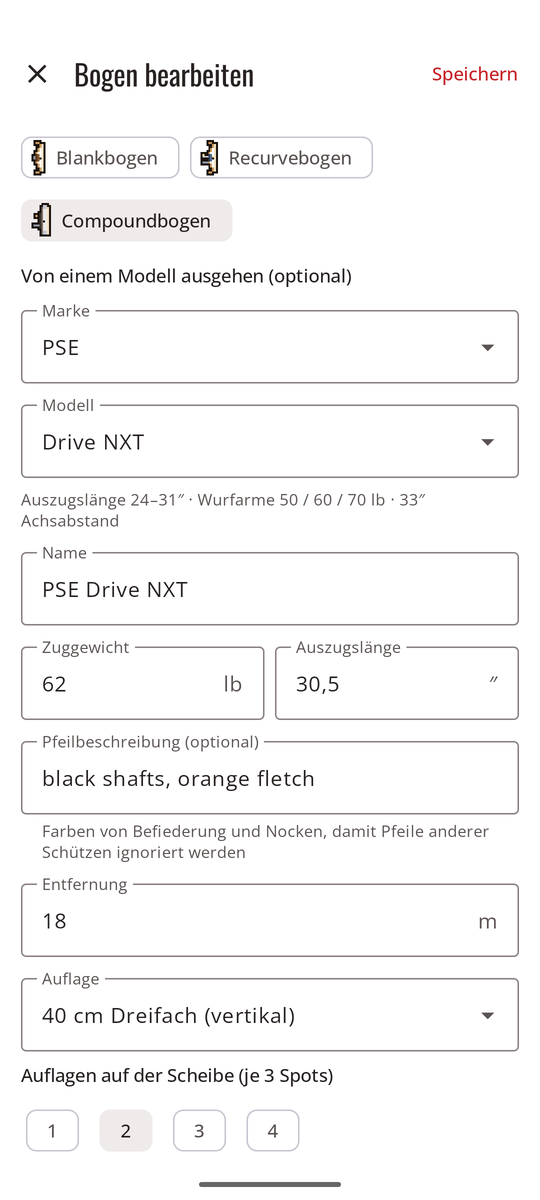
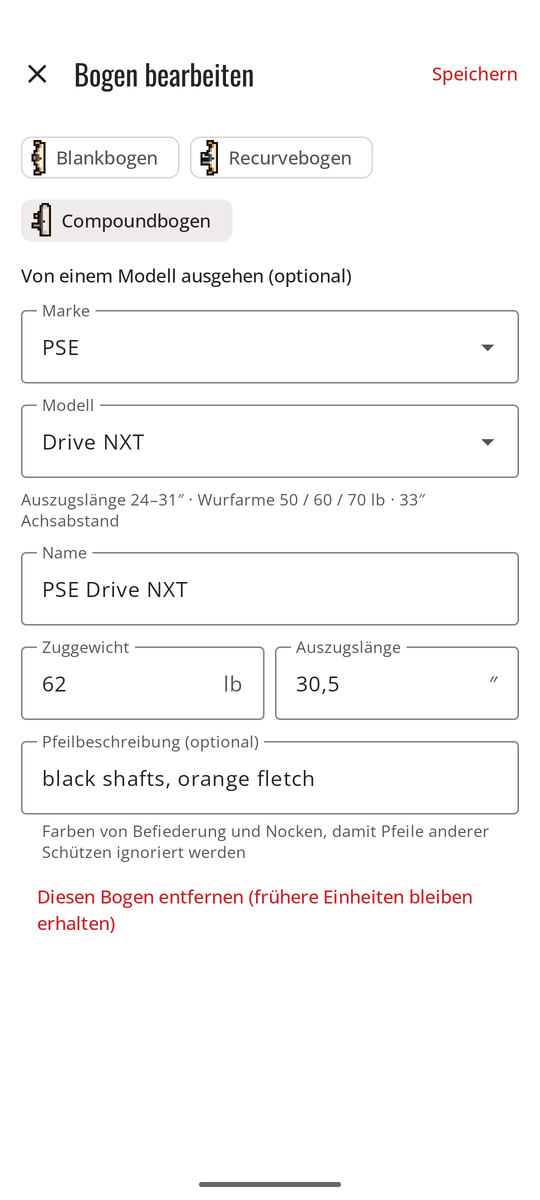
Update the sagitt·AI·re site

diff --git a/sagittaire/docs/sessions.de.md b/sagittaire/docs/sessions.de.md
@@ -5,7 +5,7 @@ Eine Einheit ist ein Besuch am Bogenplatz: ein Ort, ein Datum, ein Bogen und ein
 <div class="shots" markdown>
 <figure markdown>
 ![Ausgefülltes Formular Neue Einheit für einen Compoundbogen auf zwei senkrechten Dreifach-Auflagen.](images/screenshots/de/new-session.png){ .shot }
-<figcaption><b>Neue Einheit.</b> Die Vorgaben des Bogens füllen den Rest aus.</figcaption>
+<figcaption><b>Neue Einheit.</b> Die Angaben deiner letzten Einheit füllen den Rest aus.</figcaption>
 </figure>
 <figure markdown>
 ![Bildschirm der Einheit mit dem Gesamtergebnis, dem Diagramm Ergebnis pro Passe und dem Schießzettel.](images/screenshots/de/session.png){ .shot }
@@ -20,9 +20,9 @@ Tippe in der Übersicht auf **Einheit starten** und fülle dann aus:
 - **Ort**: Gib einen neuen ein oder wähle einen, den du schon benutzt hast. Um einen Tippfehler zu korrigieren, zwei Namen für denselben Platz zusammenzuführen oder einen zu entfernen, siehe [Gespeicherte Orte](#saved-places).
 - **Datum**: standardmäßig jetzt.
 - **Disziplin**: Scheibenbogenschießen (der Standard), Feldbogenschießen, 3D-Bogenschießen oder Para-Bogenschießen.
-- **Bogentyp** (Blankbogen, Recurvebogen oder Compoundbogen, jeder mit seiner kleinen Zeichnung) und **Bogen**. Die Vorgaben des Bogens füllen den Rest aus. Siehe [Bögen](bows.md).
+- **Bogentyp** (Blankbogen, Recurvebogen oder Compoundbogen, jeder mit seiner kleinen Zeichnung) und **Bogen**. Siehe [Bögen](bows.md).
 - Unter der Entfernung die **Visiermarke** des Bogens dafür, und die **Pfeile**, wenn der Bogen Pfeilsätze hat: der Satz, den er zuletzt benutzt hat. Siehe [Visiermarken, Pfeilsätze und Tuning-Logbuch](bows.md#sight-marks-arrow-sets-and-tuning-log).
-- **Entfernung**, **Auflage**, **Auflagen auf der Scheibe** (bei Dreifach-Auflagen: wie viele auf der Scheibe hängen, zum Beispiel 2 Auflagen = 6 Spots) und **Pfeile pro Passe** (beliebig viele, oft 3 oder 6). Die Auflagen richten sich nach der Disziplin: Scheibenauflagen, **Feld**-Auflagen (80, 60, 40 cm oder 20 cm in Spalten zu drei) oder das **3D**-Tier. Siehe [Feld und 3D](rules.md#field-and-3d).
+- **Entfernung**, **Auflage**, **Auflagen auf der Scheibe** (bei Dreifach-Auflagen: wie viele auf der Scheibe hängen, zum Beispiel 2 Auflagen = 6 Spots) und **Pfeile pro Passe** (beliebig viele, oft 3 oder 6). Die Auflagen richten sich nach der Disziplin: Scheibenauflagen, **Feld**-Auflagen (80, 60, 40 cm oder 20 cm in Spalten zu drei) oder das **3D**-Tier. Siehe [Feld und 3D](rules.md#field-and-3d). Diese Felder übernehmen deine letzte Einheit derselben Disziplin; der Bogen legt sie nicht fest.
 - **Wertungsregel**: kommt aus den Einstellungen und dem Bogentyp. Siehe [Wertungsregeln](rules.md).
 
 ## Eine Passe schießen { #shoot-an-end }
@@ -39,6 +39,7 @@ Bei der automatischen Wertung musst du nicht warten: Schieß die nächste Passe,
 - **Schießzettel:** Passe für Passe, mit der laufenden Summe. Tippe auf eine Passe, um ihr Foto und ihre Pfeile wieder zu sehen.
 - Diagramm **Ergebnis pro Passe**, mit der Durchschnittslinie und den besten und schlechtesten Passen.
 - **Ändern** wechselt die Wertungsregel, jederzeit. Alle Ergebnisse werden neu berechnet.
+- **Auflage ändern**: Wenn du auf eine andere Auflage geschossen hast als die eingestellte, wähle die richtige (gleiche Art: Scheibe oder Feld). Die Punkte werden aus den bereits erfassten Ringen neu berechnet; Pfeile, deren Ring es auf der neuen Auflage nicht gibt, und Fehlschüsse, die auf einer größeren Auflage zählen könnten, werden zur Prüfung markiert. Möglich, sobald alle Passen gewertet sind.
 - Die **Visiermarke** auf dieser Entfernung und die geschossenen **Pfeile**, jeweils mit **Ändern**.
 - **Beenden**. Passen, die nicht bestätigt sind, zählen erst, wenn du sie bestätigst, was du auch später noch tun kannst.
 - **Diese Einheit verwerfen** löscht sie, nachdem sagitt·AI·re gefragt hat.

diff --git a/sagittaire/docs/sessions.es.md b/sagittaire/docs/sessions.es.md
@@ -5,7 +5,7 @@ Una sesión es una visita al campo de tiro: un lugar, una fecha, un arco y una t
 <div class="shots" markdown>
 <figure markdown>
 ![Formulario de nueva sesión completado para un arco compuesto con dos triples dianas verticales.](images/screenshots/es/new-session.png){ .shot }
-<figcaption><b>Nueva sesión.</b> Los valores predeterminados del arco completan el resto.</figcaption>
+<figcaption><b>Nueva sesión.</b> La configuración de tu última sesión completa el resto.</figcaption>
 </figure>
 <figure markdown>
 ![Pantalla de la sesión con el total, el gráfico de puntuación por tanda y la hoja de puntuación.](images/screenshots/es/session.png){ .shot }
@@ -20,9 +20,9 @@ En Inicio, toca **Empezar sesión** y completa:
 - **Lugar**: escribe uno nuevo o elige uno que ya usaste. Para corregir una errata, juntar dos nombres del mismo campo de tiro o quitar uno, consulta [Lugares guardados](#saved-places).
 - **Fecha**: ahora, por defecto.
 - **Disciplina**: tiro a diana (la predeterminada), tiro de campo, tiro 3D o tiro con arco adaptado (para).
-- **Tipo de arco** (arco desnudo, arco recurvo o arco compuesto, cada uno con su pequeño dibujo) y **arco**. Los valores predeterminados del arco completan el resto. Consulta [Arcos](bows.md).
+- **Tipo de arco** (arco desnudo, arco recurvo o arco compuesto, cada uno con su pequeño dibujo) y **arco**. Consulta [Arcos](bows.md).
 - Debajo de la distancia, la **marca de visor** del arco para esa distancia, y las **flechas** cuando el arco tiene juegos de flechas: el juego que usó la última vez. Consulta [Marcas de visor, juegos de flechas y registro de ajustes](bows.md#sight-marks-arrow-sets-and-tuning-log).
-- **Distancia**, **diana**, **dianas de papel** (en las triples dianas: cuántas hay en el parapeto, por ejemplo 2 dianas = 6 spots) y **flechas por tanda** (cualquier número, a menudo 3 o 6). Las dianas siguen la disciplina: dianas de tiro a diana, dianas de **campo** (80, 60, 40 cm, o 20 cm en columnas de tres) o el animal **3D**. Consulta [Campo y 3D](rules.md#field-and-3d).
+- **Distancia**, **diana**, **dianas de papel** (en las triples dianas: cuántas hay en el parapeto, por ejemplo 2 dianas = 6 spots) y **flechas por tanda** (cualquier número, a menudo 3 o 6). Las dianas siguen la disciplina: dianas de tiro a diana, dianas de **campo** (80, 60, 40 cm, o 20 cm en columnas de tres) o el animal **3D**. Consulta [Campo y 3D](rules.md#field-and-3d). Estos campos parten de tu última sesión de la misma disciplina; el arco no los fija.
 - **Regla de puntuación**: viene de Ajustes y del tipo de arco. Consulta [Reglas de puntuación](rules.md).
 
 ## Tira una tanda { #shoot-an-end }
@@ -39,6 +39,7 @@ Con la puntuación automática no tienes que esperar: tira la siguiente tanda mi
 - **Hoja de puntuación:** tanda a tanda, con el total acumulado. Toca una tanda para volver a ver su foto y sus flechas.
 - Gráfico de **Puntuación por tanda**, con la línea de la media, y las mejores y peores tandas.
 - **Cambiar** la regla de puntuación en cualquier momento. Todos los totales se vuelven a calcular.
+- **Cambiar diana**: si tiraste a otra diana distinta de la elegida, elige la correcta (mismo tipo: diana o campo). Los puntos se recalculan a partir de las zonas ya registradas; las flechas cuya zona no existe en la nueva diana, y los fallos que podrían puntuar en una diana más grande, se marcan para revisar. Posible una vez puntuadas todas las tandas.
 - La **marca de visor** a esta distancia y las **flechas** tiradas, cada una con **Cambiar**.
 - **Terminar**. Las tandas sin confirmar no cuentan hasta que las confirmes, cosa que puedes hacer más tarde.
 - **Descartar esta sesión** la borra, después de preguntarte.

diff --git a/sagittaire/docs/sessions.md b/sagittaire/docs/sessions.md
@@ -5,7 +5,7 @@ A session is one visit to the range: a place, a date, a bow and a round, and the
 <div class="shots" markdown>
 <figure markdown>
 ![New session form filled in for a compound bow on two vertical triple faces.](images/screenshots/new-session.png){ .shot }
-<figcaption><b>New session.</b> The bow's defaults fill in the rest.</figcaption>
+<figcaption><b>New session.</b> Your last session's setup fills in the rest.</figcaption>
 </figure>
 <figure markdown>
 ![Session screen with the total, the score-by-end chart and the scoresheet.](images/screenshots/session.png){ .shot }
@@ -20,9 +20,9 @@ On the Dashboard, tap **Start session**, then fill in:
 - **Location**: type a new one, or pick one you used before. To fix a typo, merge two names for the same range, or remove one, see [Saved places](#saved-places).
 - **Date**: now by default.
 - **Discipline**: target archery (the default), field archery, 3D archery or para archery.
-- **Bow type** (barebow, recurve bow or compound bow, each with its small drawing) and **bow**. The bow's defaults fill in the rest. See [Bows](bows.md).
+- **Bow type** (barebow, recurve bow or compound bow, each with its small drawing) and **bow**. See [Bows](bows.md).
 - Under the distance, the bow's **sight mark** for it, and the **arrows** when the bow has arrow sets: the set it used last time. See [Sight marks, arrow sets and tuning log](bows.md#sight-marks-arrow-sets-and-tuning-log).
-- **Distance**, **target face**, **paper faces** (for 3-spot faces: how many are on the boss, for example 2 faces = 6 spots), and **arrows per end** (any number, often 3 or 6). The faces follow the discipline: target faces, **field** faces (80, 60, 40 cm, or 20 cm in columns of three), or the **3D** animal. See [Field and 3D](rules.md#field-and-3d).
+- **Distance**, **target face**, **paper faces** (for 3-spot faces: how many are on the boss, for example 2 faces = 6 spots), and **arrows per end** (any number, often 3 or 6). The faces follow the discipline: target faces, **field** faces (80, 60, 40 cm, or 20 cm in columns of three), or the **3D** animal. See [Field and 3D](rules.md#field-and-3d). These fields start from your last session of the same discipline; the bow doesn't set them.
 - **Scoring rule**: set from Settings and the bow type. See [Scoring rules](rules.md).
 
 ## Shoot an end
@@ -39,6 +39,7 @@ With automatic scoring you don't have to wait: shoot the next end while the prev
 - **Scoresheet:** end by end, with the running total. Tap an end to see its photo and arrows again.
 - **Score by end** chart, with the average line, and the best and worst ends.
 - **Change** the scoring rule at any time. All the totals are recalculated.
+- **Change face**: if you shot at another face than the one set, pick the right one (same kind of face: target or field). Points are recalculated from the rings already recorded; arrows whose ring isn't on the new face, and misses that may score on a larger face, are marked for review. Possible once every end is scored.
 - The **sight mark** at this distance and the **arrows** shot, each with **Change**.
 - **Finish**. Ends that aren't confirmed don't count until you confirm them, which you can still do later.
 - **Discard this session** deletes it, after asking.

diff --git a/sagittaire/docs/bows.de.md b/sagittaire/docs/bows.de.md
@@ -4,7 +4,7 @@ Der Tab **Bögen** listet deine Bögen. Tipp auf einen, um seine Seite zu öffne
 
 <div class="shots" markdown>
 <figure markdown>
-![Liste der Bögen: zwei Recurve- und zwei Compoundbögen, jeder mit einer kleinen Zeichnung seines Typs markiert, mit Zuggewicht, Auszugslänge und Standardwerten.](images/screenshots/de/bows.png){ .shot }
+![Liste der Bögen: zwei Recurve- und zwei Compoundbögen, jeder mit einer kleinen Zeichnung seines Typs markiert, mit Zuggewicht und Auszugslänge.](images/screenshots/de/bows.png){ .shot }
 <figcaption><b>Deine Bögen</b></figcaption>
 </figure>
 <figure markdown>
@@ -25,7 +25,7 @@ Der Tab **Bögen** listet deine Bögen. Tipp auf einen, um seine Seite zu öffne
 - Bei einem Compound kannst du mit **Marke und Modell** aus dem eingebauten Katalog starten (PSE, Hoyt, Mathews, Bowtech). Das füllt den Namen aus, zeigt die Daten des Modells und warnt dich, wenn deine Auszugslänge außerhalb des Bereichs des Modells liegt.
 - **Zuggewicht** (lb) und **Auszugslänge** (Zoll). Beide akzeptieren Komma oder Punkt.
 - **Pfeilbeschreibung**, zum Beispiel „schwarze Schäfte, orange Befiederung“. Sie wird mit dem Foto gesendet, damit die KI die Pfeile anderer Schützen auf derselben Scheibe ignoriert.
-- **Standardwerte:** Auflage, Auflagen auf der Scheibe, Entfernung und Pfeile pro Passe, mit denen neue Einheiten ausgefüllt werden.
+- **Auflage**, **Entfernung** und **Pfeile pro Passe** gehören zu jeder Einheit, nicht zum Bogen: Eine neue Einheit übernimmt die letzte. Siehe [Einheiten](sessions.md).
 
 ## Visiermarken, Pfeilsätze und Tuning-Logbuch { #sight-marks-arrow-sets-and-tuning-log }
 

diff --git a/sagittaire/docs/bows.fr.md b/sagittaire/docs/bows.fr.md
@@ -4,7 +4,7 @@ L’onglet **Arcs** liste vos arcs. Touchez-en un pour ouvrir sa page : ses ré
 
 <div class="shots" markdown>
 <figure markdown>
-![Liste des arcs : deux arcs recourbés et deux arcs à poulies, chacun marqué d’un petit dessin de son type, avec puissance, allonge et valeurs par défaut.](images/screenshots/fr/bows.png){ .shot }
+![Liste des arcs : deux arcs recourbés et deux arcs à poulies, chacun marqué d’un petit dessin de son type, avec puissance et allonge.](images/screenshots/fr/bows.png){ .shot }
 <figcaption><b>Vos arcs</b></figcaption>
 </figure>
 <figure markdown>
@@ -25,7 +25,7 @@ L’onglet **Arcs** liste vos arcs. Touchez-en un pour ouvrir sa page : ses ré
 - Pour un arc à poulies, vous pouvez partir d’une **marque** et d’un **modèle** du catalogue intégré (PSE, Hoyt, Mathews, Bowtech). Il remplit le nom, montre les caractéristiques du modèle, et vous prévient si votre allonge sort de la plage du modèle.
 - **Puissance** (lb) et **allonge** (pouces). Les deux acceptent une virgule ou un point.
 - **Description des flèches**, par exemple « tubes noirs, plumes orange ». Elle est envoyée avec la photo pour que l’IA ignore les flèches des autres archers sur la même butte.
-- **Valeurs par défaut :** blason, blasons sur la butte, distance et flèches par volée, pour remplir les nouvelles séances.
+- Le **blason**, la **distance** et les **flèches par volée** appartiennent à chaque séance, pas à l’arc : une nouvelle séance reprend la dernière. Voir [Séances](sessions.md).
 
 ## Repères de visée, jeux de flèches et carnet de réglages
 

diff --git a/sagittaire/docs/bows.es.md b/sagittaire/docs/bows.es.md
@@ -4,7 +4,7 @@ La pestaña **Arcos** muestra tus arcos. Toca uno para abrir su página: su conf
 
 <div class="shots" markdown>
 <figure markdown>
-![Lista de arcos: dos recurvos y dos compuestos, cada uno marcado con un pequeño dibujo de su tipo, con potencia, apertura y valores predeterminados.](images/screenshots/es/bows.png){ .shot }
+![Lista de arcos: dos recurvos y dos compuestos, cada uno marcado con un pequeño dibujo de su tipo, con potencia y apertura.](images/screenshots/es/bows.png){ .shot }
 <figcaption><b>Tus arcos</b></figcaption>
 </figure>
 <figure markdown>
@@ -25,7 +25,7 @@ La pestaña **Arcos** muestra tus arcos. Toca uno para abrir su página: su conf
 - Para un compuesto, puedes partir de una **marca y modelo** del catálogo integrado (PSE, Hoyt, Mathews, Bowtech). Rellena el nombre, muestra las especificaciones del modelo y te avisa si tu apertura está fuera del rango del modelo.
 - **Potencia** (lb) y **Apertura** (pulgadas). Las dos aceptan coma o punto.
 - **Descripción de las flechas**, por ejemplo «tubos negros, emplumado naranja». Se envía con la foto para que la IA ignore las flechas de otros arqueros en el mismo parapeto.
-- **Valores predeterminados:** diana, dianas de papel, distancia y flechas por tanda, para rellenar las sesiones nuevas.
+- La **diana**, la **distancia** y las **flechas por tanda** pertenecen a cada sesión, no al arco: una sesión nueva parte de la última. Consulta [Sesiones](sessions.md).
 
 ## Marcas de visor, juegos de flechas y registro de ajustes { #sight-marks-arrow-sets-and-tuning-log }
 

diff --git a/sagittaire/docs/bows.md b/sagittaire/docs/bows.md
@@ -4,7 +4,7 @@ The **Bows** tab lists your bows. Tap one to open its page: its setup, **sight m
 
 <div class="shots" markdown>
 <figure markdown>
-![Bows list: two recurve and two compound bows, each marked with a small drawing of its type, with draw weight, draw length and defaults.](images/screenshots/bows.png){ .shot }
+![Bows list: two recurve and two compound bows, each marked with a small drawing of its type, with draw weight and draw length.](images/screenshots/bows.png){ .shot }
 <figcaption><b>Your bows</b></figcaption>
 </figure>
 <figure markdown>
@@ -25,7 +25,7 @@ The **Bows** tab lists your bows. Tap one to open its page: its setup, **sight m
 - For a compound, you can start from a **brand and model** in the built-in catalog (PSE, Hoyt, Mathews, Bowtech). It fills in the name, shows the model's specs, and warns you if your draw length is outside the model's range.
 - **Draw weight** (lb) and **draw length** (inches). Both accept a comma or a dot.
 - **Arrow description**, for example "black shafts, orange fletching". It's sent with the photo so the AI ignores other archers' arrows on the same boss.
-- **Defaults:** target face, paper faces, distance and arrows per end, used to fill in new sessions.
+- The **target face**, **distance** and **arrows per end** belong to each session, not to the bow: a new session starts from your last one. See [Sessions](sessions.md#start-a-session).
 
 ## Sight marks, arrow sets and tuning log
 

diff --git a/sagittaire/docs/review.fr.md b/sagittaire/docs/review.fr.md
@@ -26,6 +26,7 @@ Chaque flèche porte un repère blanc avec sa zone. Là où les flèches sont pr
 - **Ajouter une flèche** : touchez sa zone, ou activez **Ou touchez la photo à son emplacement**, touchez l’endroit de la flèche, puis choisissez sa zone.
 - **Retirer cette flèche** : pour la flèche d’un autre archer, ou une flèche comptée deux fois. L’application demande d’abord confirmation.
 - Un bandeau vous prévient quand le nombre de flèches trouvées n’est pas le nombre tiré, ou quand la photo pose problème (reflet, flou, blason coupé).
+- Si l’IA indique que la photo ne montre pas le blason de la séance (par exemple un spot unique au lieu d’un trispot), un bandeau rouge le signale en premier, avec **Changer de blason** et, avec votre propre clé API et une volée pas encore confirmée, **Compter à nouveau**.
 
 Touchez ensuite **Valider · volée suivante** pour revenir directement à l’appareil photo, ou **Valider et revenir à la séance**. Le bouton corbeille supprime la volée, après confirmation.
 

diff --git a/sagittaire/docs/review.de.md b/sagittaire/docs/review.de.md
@@ -26,6 +26,7 @@ Jeder Pfeil hat eine weiße Markierung mit seinem Ring. Wo Pfeile dicht beieinan
 - **Pfeil hinzufügen**: Tipp auf seinen Ring, oder schalte **Oder tippe auf die Stelle im Foto** ein, tipp auf die Stelle und wähl dann seinen Ring.
 - **Diesen Pfeil entfernen**: für den Pfeil eines anderen Schützen oder einen doppelt gezählten. Die App fragt vorher nach.
 - Ein Hinweis warnt dich, wenn die Zahl der gefundenen Pfeile nicht der Zahl der geschossenen entspricht oder wenn das Foto Probleme hat (Spiegelung, Unschärfe, abgeschnittene Auflage).
+- Wenn die KI meldet, dass das Foto nicht die Auflage der Einheit zeigt (zum Beispiel ein Einzelspot statt einer Dreifach-Auflage), steht zuerst ein roter Hinweis da, mit **Auflage ändern** und, mit deinem eigenen API-Schlüssel und einer noch nicht bestätigten Passe, **Erneut werten**.
 
 Tipp dann auf **Bestätigen · nächste Passe**, um direkt zur Kamera zurückzukehren, oder auf **Bestätigen und zurück zur Einheit**. Der Papierkorb löscht die Passe, nach einer Rückfrage.
 

diff --git a/sagittaire/docs/review.es.md b/sagittaire/docs/review.es.md
@@ -26,6 +26,7 @@ Cada flecha tiene un marcador blanco con su zona. Donde las flechas están junta
 - **Añadir una flecha**: toca su zona, o activa **O toca la foto donde está**, toca donde está y luego elige su zona.
 - **Quitar esta flecha**: para la flecha de otro arquero, o una contada dos veces. La app pregunta antes.
 - Un aviso te advierte cuando el número de flechas encontradas no coincide con el de flechas tiradas, o cuando la foto tiene problemas (reflejos, desenfoque, diana cortada).
+- Si la IA indica que la foto no muestra la diana de la sesión (por ejemplo un solo spot en lugar de una triple diana), un aviso rojo lo dice primero, con **Cambiar diana** y, con tu propia clave de API y una tanda aún no confirmada, **Puntuar de nuevo**.
 
 Luego toca **Confirmar · tirar la siguiente tanda** para volver directamente a la cámara, o **Confirmar y volver a la sesión**. El botón de la papelera elimina la tanda, tras preguntar.
 

diff --git a/sagittaire/docs/review.md b/sagittaire/docs/review.md
@@ -26,6 +26,7 @@ Each arrow has a white marker with its ring. Where arrows are close together, th
 - **Add an arrow**: tap its ring, or turn on **Or tap the photo where it is**, tap where it is, then pick its ring.
 - **Remove this arrow**: for another archer's arrow, or one counted twice. The app asks first.
 - A banner warns you when the number of arrows found isn't the number shot, or when the photo has problems (glare, blur, face cut off).
+- If the AI says the photo doesn't show the session's face (for example a single spot instead of a triple face), a red banner says so first, with **Change face** and, with your own API key and an end not yet confirmed, **Score again**.
 
 Then tap **Confirm · shoot next end** to go straight back to the camera, or **Confirm and back to session**. The trash button deletes the end, after asking.
 
